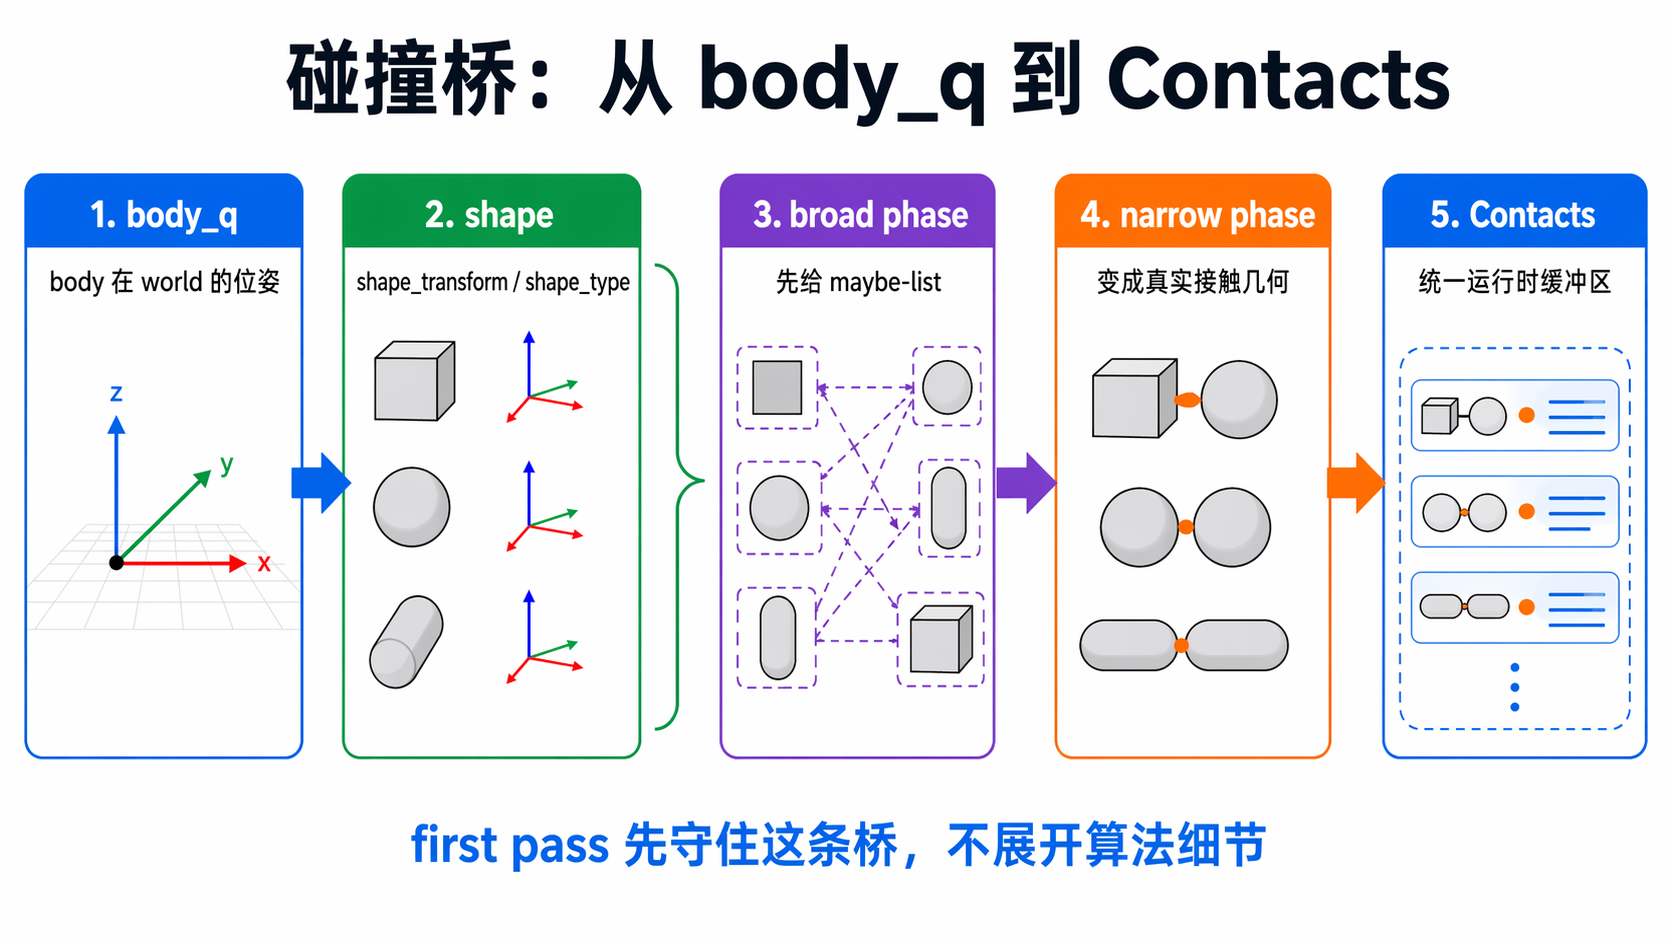
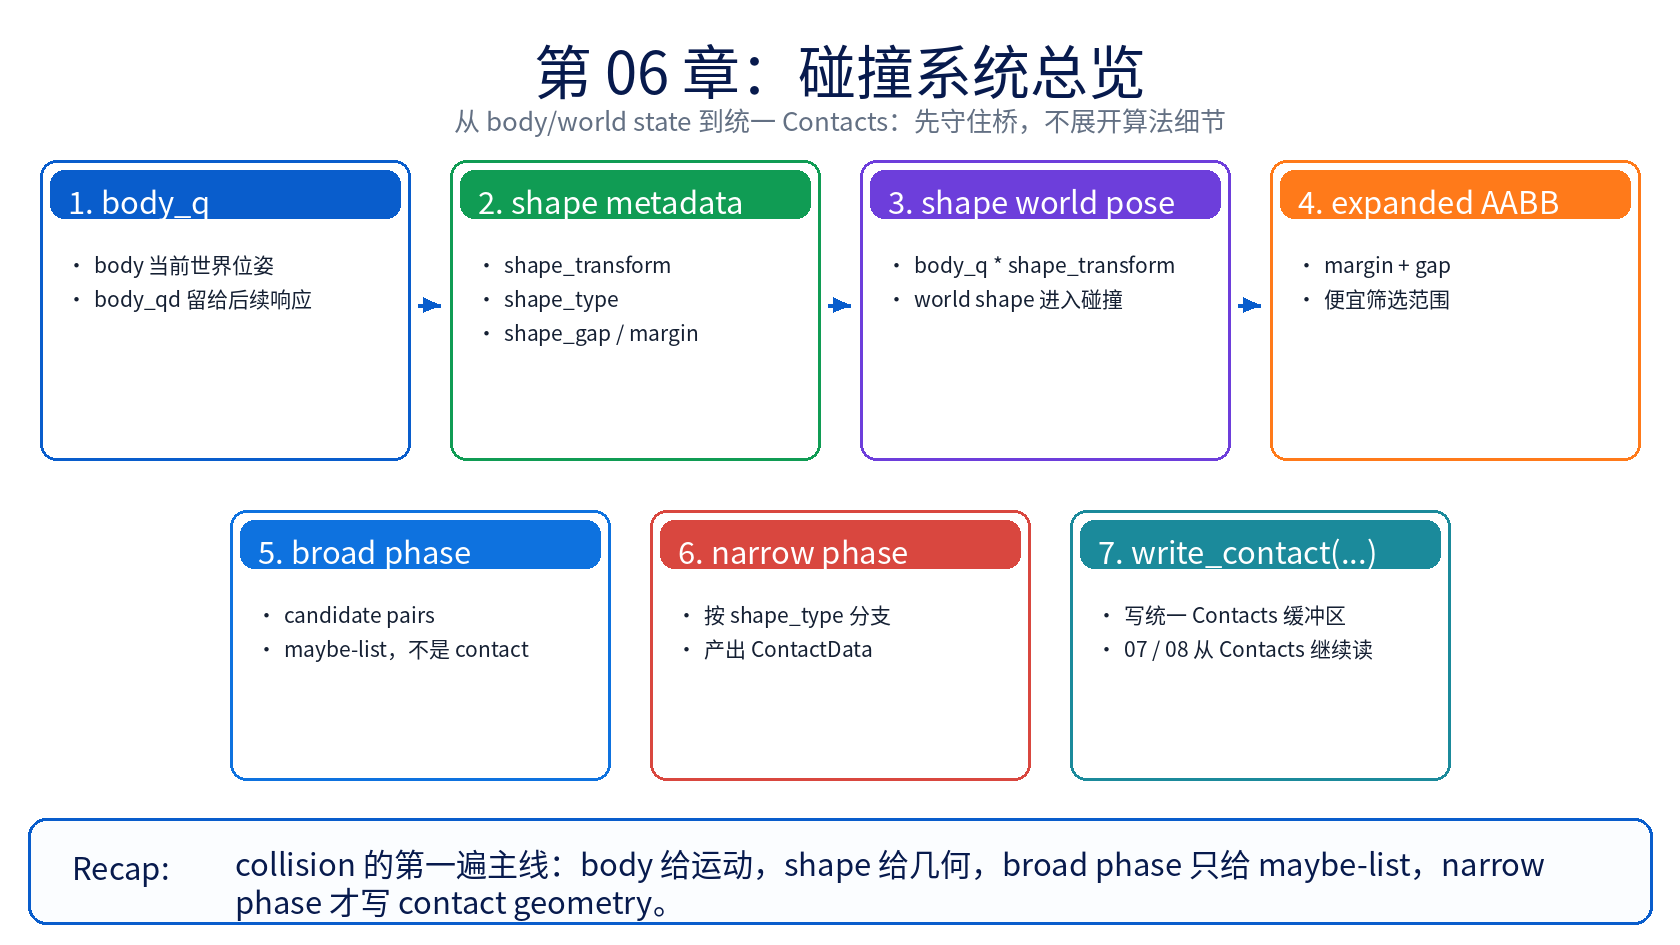
docs: add chapter 06 tutorial infographics

Changed region(s): [[0.0, 0.0308, 0.9952, 0.8321], [0.0, 0.8629, 0.9952, 0.9862], [0.311, 0.4006, 0.3421, 0.4315]]

diff --git a/docs/superpowers/plans/2026-04-25-chapter-06-tutorial-infographics.md b/docs/superpowers/plans/2026-04-25-chapter-06-tutorial-infographics.md
@@ -1,6 +1,6 @@
 # Chapter 06 Tutorial Infographics Implementation Plan
 
-> **For agentic workers:** REQUIRED SUB-SKILL: Use superpowers:subagent-driven-development (recommended) or superpowers:executing-plans to implement this plan task-by-task. Steps use checkbox (`- [ ]`) syntax for tracking.
+> **For agentic workers:** REQUIRED SUB-SKILL: Use superpowers:subagent-driven-development (recommended) or superpowers:executing-plans to implement this plan task-by-task. Steps use checkbox (`- [x]`) syntax for tracking.
 
 **Goal:** Generate and integrate PNG tutorial infographics across chapter 06 reader-facing pages.
 
@@ -49,7 +49,7 @@ Temporary ignored implementation files:
 
 ## Task 1: Calibration Renderer and Image
 
-- [ ] **Step 1: Prepare ignored renderer workspace**
+- [x] **Step 1: Prepare ignored renderer workspace**
 
 Run:
 
@@ -59,7 +59,7 @@ mkdir -p tmp/ch06-imagegen/fonts chapters/06_collision/assets
 
 Expected: both directories exist. `tmp/` is ignored by `.gitignore`, so the renderer does not become part of the final commit.
 
-- [ ] **Step 2: Ensure a readable CJK font is available**
+- [x] **Step 2: Ensure a readable CJK font is available**
 
 Run:
 
@@ -78,7 +78,7 @@ PY
 
 Expected: a font path or `missing`. If it prints `missing`, download `NotoSansCJKsc-Regular.otf` into `tmp/ch06-imagegen/fonts/` and re-run the probe. Do not commit the font.
 
-- [ ] **Step 3: Create the deterministic renderer**
+- [x] **Step 3: Create the deterministic renderer**
 
 Write `tmp/ch06-imagegen/render_infographics.py`.
 
@@ -108,7 +108,7 @@ body/world state + shape metadata
 
 The image must explicitly say `broad phase` produces `maybe-list / candidate pairs`, not final contacts.
 
-- [ ] **Step 4: Render calibration only**
+- [x] **Step 4: Render calibration only**
 
 Run:
 
@@ -118,7 +118,7 @@ python3 tmp/ch06-imagegen/render_infographics.py --only 06_collision_bridge_map.
 
 Expected: `chapters/06_collision/assets/06_collision_bridge_map.png` is created or replaced.
 
-- [ ] **Step 5: Inspect calibration file**
+- [x] **Step 5: Inspect calibration file**
 
 Run:
 
@@ -132,12 +132,12 @@ Open the image visually and check it matches `docs/superpowers/specs/chapter-vis
 
 ## Task 2: README Image Batch
 
-- [ ] **Step 1: Render README support images**
+- [x] **Step 1: Render README support images**
 
 Render:
 
 - `06_readme_collision_spine.png`: chapter identity; chapter 05 body state plus chapter 04 shape metadata now enter collision.
-- `06_readme_file_roles_reading_order.png`: file roles and reading order: `README.md -> principle.md -> source-walkthrough.md -> source-walkthrough-deep.md -> examples.md`.
+- `06_readme_file_roles_reading_order.png`: file roles and reading order: `README.md -> source-walkthrough.md -> principle.md -> examples.md -> source-walkthrough-deep.md -> 07 / 08`.
 - `06_readme_completion_scope_prereq.png`: completion gate, scope, non-scope, prerequisites, GAMES103 bridge, and expected output.
 
 Run:
@@ -149,7 +149,7 @@ python3 tmp/ch06-imagegen/render_infographics.py \
   --only 06_readme_completion_scope_prereq.png
 ```
 
-- [ ] **Step 2: Integrate README images**
+- [x] **Step 2: Integrate README images**
 
 Insert:
 
@@ -163,7 +163,7 @@ Coverage note:
 
 ## Task 3: Principle Image Batch
 
-- [ ] **Step 1: Render principle concept images**
+- [x] **Step 1: Render principle concept images**
 
 Render:
 
@@ -188,7 +188,7 @@ python3 tmp/ch06-imagegen/render_infographics.py \
   --only 06_principle_next_chapters_map.png
 ```
 
-- [ ] **Step 2: Integrate principle images**
+- [x] **Step 2: Integrate principle images**
 
 Insert:
 
@@ -202,7 +202,7 @@ Insert:
 
 ## Task 4: Source Walkthrough Image Batch
 
-- [ ] **Step 1: Render source-walkthrough images**
+- [x] **Step 1: Render source-walkthrough images**
 
 Render:
 
@@ -229,7 +229,7 @@ python3 tmp/ch06-imagegen/render_infographics.py \
   --only 06_walkthrough_object_ledger_stop_here.png
 ```
 
-- [ ] **Step 2: Integrate source-walkthrough images**
+- [x] **Step 2: Integrate source-walkthrough images**
 
 Insert:
 
@@ -246,7 +246,7 @@ Insert:
 
 ## Task 5: Examples Image Batch
 
-- [ ] **Step 1: Render examples images**
+- [x] **Step 1: Render examples images**
 
 Render:
 
@@ -265,7 +265,7 @@ python3 tmp/ch06-imagegen/render_infographics.py \
   --only 06_examples_contact_fields_watchlist.png
 ```
 
-- [ ] **Step 2: Integrate examples images**
+- [x] **Step 2: Integrate examples images**
 
 Insert:
 
@@ -276,7 +276,7 @@ Insert:
 
 ## Task 6: Verification, Review, Commit, Push
 
-- [ ] **Step 1: Verify Markdown image references**
+- [x] **Step 1: Verify Markdown image references**
 
 Run:
 
@@ -309,7 +309,7 @@ PY
 
 Expected: `all image refs exist (22 refs)`.
 
-- [ ] **Step 2: Verify expected asset inventory**
+- [x] **Step 2: Verify expected asset inventory**
 
 Run:
 
@@ -354,7 +354,7 @@ PY
 
 Expected: `expected 22 actual 22` and no missing / extra output.
 
-- [ ] **Step 3: Verify PNG assets**
+- [x] **Step 3: Verify PNG assets**
 
 Run:
 
@@ -364,7 +364,7 @@ file chapters/06_collision/assets/06_*.png
 
 Expected: every line says `PNG image data`.
 
-- [ ] **Step 4: Verify Markdown diff cleanliness**
+- [x] **Step 4: Verify Markdown diff cleanliness**
 
 Run:
 
@@ -374,7 +374,7 @@ git diff --check -- chapters/06_collision docs/superpowers/specs/2026-04-25-chap
 
 Expected: no output.
 
-- [ ] **Step 5: Verify deep walkthrough stayed untouched**
+- [x] **Step 5: Verify deep walkthrough stayed untouched**
 
 Run:
 
@@ -385,7 +385,7 @@ git status --short -- chapters/06_collision/source-walkthrough-deep.md
 
 Expected: no output.
 
-- [ ] **Step 6: Run visual / semantic review**
+- [x] **Step 6: Run visual / semantic review**
 
 Review checklist:
 
@@ -399,11 +399,11 @@ Review checklist:
 
 Fix any concrete issues, re-render affected PNGs, and re-run Steps 1-5.
 
-- [ ] **Step 7: Mark this plan complete**
+- [x] **Step 7: Mark this plan complete**
 
 After all checks pass, update every checkbox in this file from `[ ]` to `[x]`.
 
-- [ ] **Step 8: Commit and push**
+- [x] **Step 8: Commit and push**
 
 Run:
 

diff --git a/chapters/06_collision/source-walkthrough.md b/chapters/06_collision/source-walkthrough.md
@@ -68,6 +68,8 @@ body motion + Model.shape_*
 
 第一遍先守住一句话：chapter 06 真正讲的是 **shape 怎样接上 collision pipeline**，不是 body 直接互相碰撞。
 
+![06 walkthrough 主线总览](assets/06_walkthrough_pipeline_overview.png)
+
 ## One-Screen Chapter Map
 
 ```text
@@ -117,6 +119,8 @@ Model.shape_transform / shape_body / shape_type / shape_margin / shape_gap / sha
 4. 最后看 Stage 4 和 Stage 5。
    - 想验证什么：narrow phase 怎样把不同几何分支重新压回统一的 `ContactData`，writer 又怎样把它写进 `Contacts`。
    - 看完后应该能说：chapter 06 的终点不是某个 GJK 函数，而是 solver 能直接消费的 `Contacts` 数组。
+
+![06 walkthrough beginner path](assets/06_walkthrough_beginner_path.png)
 
 ## Main Walkthrough
 
@@ -183,6 +187,8 @@ def collide(self, state: State, contacts: Contacts | None = None, *, collision_p
 **Output passed to next stage**
 
 `CollisionPipeline.collide(state, contacts)` 拿到了两类输入：`state.body_q` 这份 runtime body pose，以及 `model.shape_*` 这份静态 shape 元数据。
+
+![Stage 1：Model / State / shape data handoff](assets/06_walkthrough_stage1_model_state_shape_data.png)
 
 ### Stage 2: `compute_shape_aabbs(...)` 把 body pose 变成每个 shape 的 world-space 表示
 
@@ -262,6 +268,8 @@ geom_xform[shape_id] = X_ws  # 把 shape 的 world pose 留给 narrow phase
 
 每个 shape 的 `world transform + expanded AABB + geom_data`。其中 AABB 交给 broad phase，`geom_*` 交给 narrow phase。
 
+![Stage 2：compute_shape_aabbs 生成 world shape 与 AABB](assets/06_walkthrough_stage2_compute_shape_aabbs.png)
+
 ### Stage 3: broad phase 只写 candidate pairs，不写 contact geometry
 
 **Claim**
@@ -318,6 +326,8 @@ def write_pair(pair, candidate_pair, candidate_pair_count, max_candidate_pair):
 **Output passed to next stage**
 
 一张 candidate shape pair 名单：`broad_phase_shape_pairs + broad_phase_pair_count`。
+
+![Stage 3：broad phase candidate pairs](assets/06_walkthrough_stage3_broad_phase_candidate_pairs.png)
 
 ### Stage 4: narrow phase 可以分很多支，但会重新收束成统一的 `ContactData`
 
@@ -395,6 +405,8 @@ class ContactData:
 
 一条条统一格式的 `ContactData` 记录，已经足够让 writer 把它们写进最终 `Contacts` 缓冲区。
 
+![Stage 4：narrow phase 收束成 ContactData](assets/06_walkthrough_stage4_narrow_phase_contactdata.png)
+
 ### Stage 5: `write_contact()` 把 `ContactData` 变成 solver 能直接消费的 `Contacts`
 
 **Claim**
@@ -466,6 +478,8 @@ self.rigid_contact_margin1 = wp.zeros(rigid_contact_max, dtype=wp.float32)
 
 `Contacts.rigid_contact_count` 以及 `rigid_contact_shape0/1`、`rigid_contact_point0/1`、`rigid_contact_offset0/1`、`rigid_contact_normal`、`rigid_contact_margin0/1`。这就是 `07` 和 `08` 的共同输入。
 
+![Stage 5：write_contact 写入 Contacts](assets/06_walkthrough_stage5_write_contact_contacts.png)
+
 ## Object Ledger
 
 | 对象 | 谁生产 | 谁消费 | 盯哪些字段 |
@@ -477,6 +491,8 @@ self.rigid_contact_margin1 = wp.zeros(rigid_contact_max, dtype=wp.float32)
 | `broad_phase_shape_pairs` | broad phase (`explicit` / `nxn` / `sap`) | `NarrowPhase.launch_custom_write()` | 这里只存 shape pair id |
 | `ContactData` | narrow phase 各分支 | `write_contact()` | `contact_point_center`、`contact_normal_a_to_b`、`contact_distance`、`shape_a/b`、`gap_sum` |
 | `Contacts` | `write_contact()` 写入，`CollisionPipeline.contacts()` 分配 | `07_constraints_contacts_math`、`08_rigid_solvers` | `rigid_contact_count`、`shape0/1`、`point0/1`、`offset0/1`、`normal`、`margin0/1` |
+
+![Object ledger 与 stop-here recap](assets/06_walkthrough_object_ledger_stop_here.png)
 
 ## Stop Here
 

diff --git a/chapters/06_collision/examples.md b/chapters/06_collision/examples.md
@@ -13,9 +13,13 @@ newton_commit: 1a230702
 
 `principle.md` 已经把 `shape world pose -> candidate pair -> contact geometry -> Contacts` 这条桥讲顺；这一页只把两个现成例子改成观察任务。下面提到的命令只是建议入口，不代表已经执行过。chapter 06 第一遍先看“哪个 shape pair 先出现、一个 pair 会长出几个 contact、法线和接触点怎样跟着几何变”，先不把注意力放到 solver 调参或控制逻辑上。
 
+![06 examples 观察任务总览](assets/06_examples_overview_observation_tasks.png)
+
 ## 主例子：`basic_shapes` 里的球落地
 
 如果你要亲自跑，建议入口还是最朴素的 `python -m newton.examples basic_shapes`，但第一遍只盯 sphere 和 ground plane，先把其他 shape 当背景。
+
+![basic_shapes 球落地观察单](assets/06_examples_basic_shapes_sphere_ground.png)
 
 ### 它最适合验证什么
 
@@ -49,6 +53,8 @@ newton_commit: 1a230702
 
 如果你要亲自跑，这个组合比默认大金字塔更适合 chapter 06 第一遍：`python -m newton.examples pyramid --test --pyramid-size 4 --num-pyramids 1`。这里故意先用 `--test` 去掉 wrecking ball，把注意力留给 box-ground 和 box-box 接触本身。
 
+![pyramid contact set 增长观察单](assets/06_examples_pyramid_contact_set_growth.png)
+
 ### 它最适合补哪块观察
 
 - `basic_shapes` 让你看见“最小单 pair”；这个对照例子则让你看见 contact set 怎样因为 shape 数和面接触而长大。
@@ -64,6 +70,8 @@ newton_commit: 1a230702
 | 在理解静态堆叠后，再把 `--test` 去掉让 wrecking ball 回来 | contact set 会从“主要集中在底层支撑面”变成“瞬时增长、迅速重排”的图像；这不是给你调 solver，而是让你看到候选 pair 和最终 contact 都会随几何关系突然扩张。 | `rigid_contact_count` 的峰值变化，以及画面里 arrows 从底层局部区域扩散到整堆 boxes 的过程。 |
 
 ## 这页怎么配合其他文件
+
+![contact 字段观察清单](assets/06_examples_contact_fields_watchlist.png)
 
 - `principle.md`：负责把 `shape world pose -> broad phase candidate -> narrow phase contact -> Contacts` 这条桥讲顺。
 - `source-walkthrough.md`：负责把这里提到的观察点钉回 `compute_shape_aabbs(...)`、broad phase writer、narrow phase 和 `Contacts` 字段。

diff --git a/chapters/06_collision/README.md b/chapters/06_collision/README.md
@@ -13,6 +13,8 @@ newton_commit: 1a230702
 
 所以这一章不是碰撞算法教材，也不是接触求解器章节。它只保住第一次读 collision path 真正需要的桥：body/world state 怎样挂到 shape，shape 怎样进入 broad phase，candidate pair 怎样按 shape type 分流到 narrow phase，以及 contact data 为什么会以 `Contacts` 这种统一缓冲区的形式交给后面的章节。
 
+![06 collision 主线入口](assets/06_readme_collision_spine.png)
+
 ## 文件分工
 
 - `README.md`：只负责本章边界、完成门槛和阅读入口。
@@ -20,6 +22,8 @@ newton_commit: 1a230702
 - `source-walkthrough.md`：新手 / 主 walkthrough。第一次追 chapter 06 源码先看这一份；它内嵌关键源码片段，把 `body/world state -> candidate pairs -> ContactData -> Contacts` 主线直接讲顺。
 - `source-walkthrough-deep.md`：深读锚点版。已经跟上主线后，如果你想精确追 symbol、上游路径和可选分支，再看这一份。
 - `examples.md`：负责用最小 shape 例子把 candidate pair、contact 数量和 contact 几何变成可观察现象。
+
+![06 文件分工与阅读顺序](assets/06_readme_file_roles_reading_order.png)
 
 ## 完成门槛
 
@@ -30,6 +34,8 @@ newton_commit: 1a230702
 [ ] 我能举出至少一种 shape-type branching 的例子，说明不同几何对会走不同 narrow-phase 问题，但最后仍会写成统一 contact data
 [ ] 我能用人话描述 `Contacts` 至少存了 shape id、body-frame 接触点、world-frame 法线、offset / margin 这几类信息，并解释为什么 `07` / `08` 都要从这里继续读
 ```
+
+![06 完成门槛与范围](assets/06_readme_completion_scope_prereq.png)
 
 ## 本章目标
 

diff --git a/docs/superpowers/specs/2026-04-25-chapter-06-tutorial-infographics-design.md b/docs/superpowers/specs/2026-04-25-chapter-06-tutorial-infographics-design.md
@@ -105,7 +105,7 @@ Expected image count is about 22 PNGs: 3 for `README.md`, 7 for `principle.md`, 
 Create tutorial-navigation images for:
 
 1. Chapter identity: chapter 05 body state plus chapter 04 shape metadata now enter collision.
-2. File responsibilities and reading order: `README.md`, `principle.md`, `source-walkthrough.md`, `source-walkthrough-deep.md`, and `examples.md`.
+2. File responsibilities and reading order: `README.md -> source-walkthrough.md -> principle.md -> examples.md -> source-walkthrough-deep.md -> 07 / 08`, matching the chapter 06 README's first-pass path.
 3. Completion threshold, chapter scope, explicit non-scope, prerequisites, GAMES103 bridge, and expected output.
 
 These should be placed across the README so the file reads like a visual entry map. The GAMES103 and reading-order sections can be covered by nearby scope / file-role images if a separate table image would be redundant.
